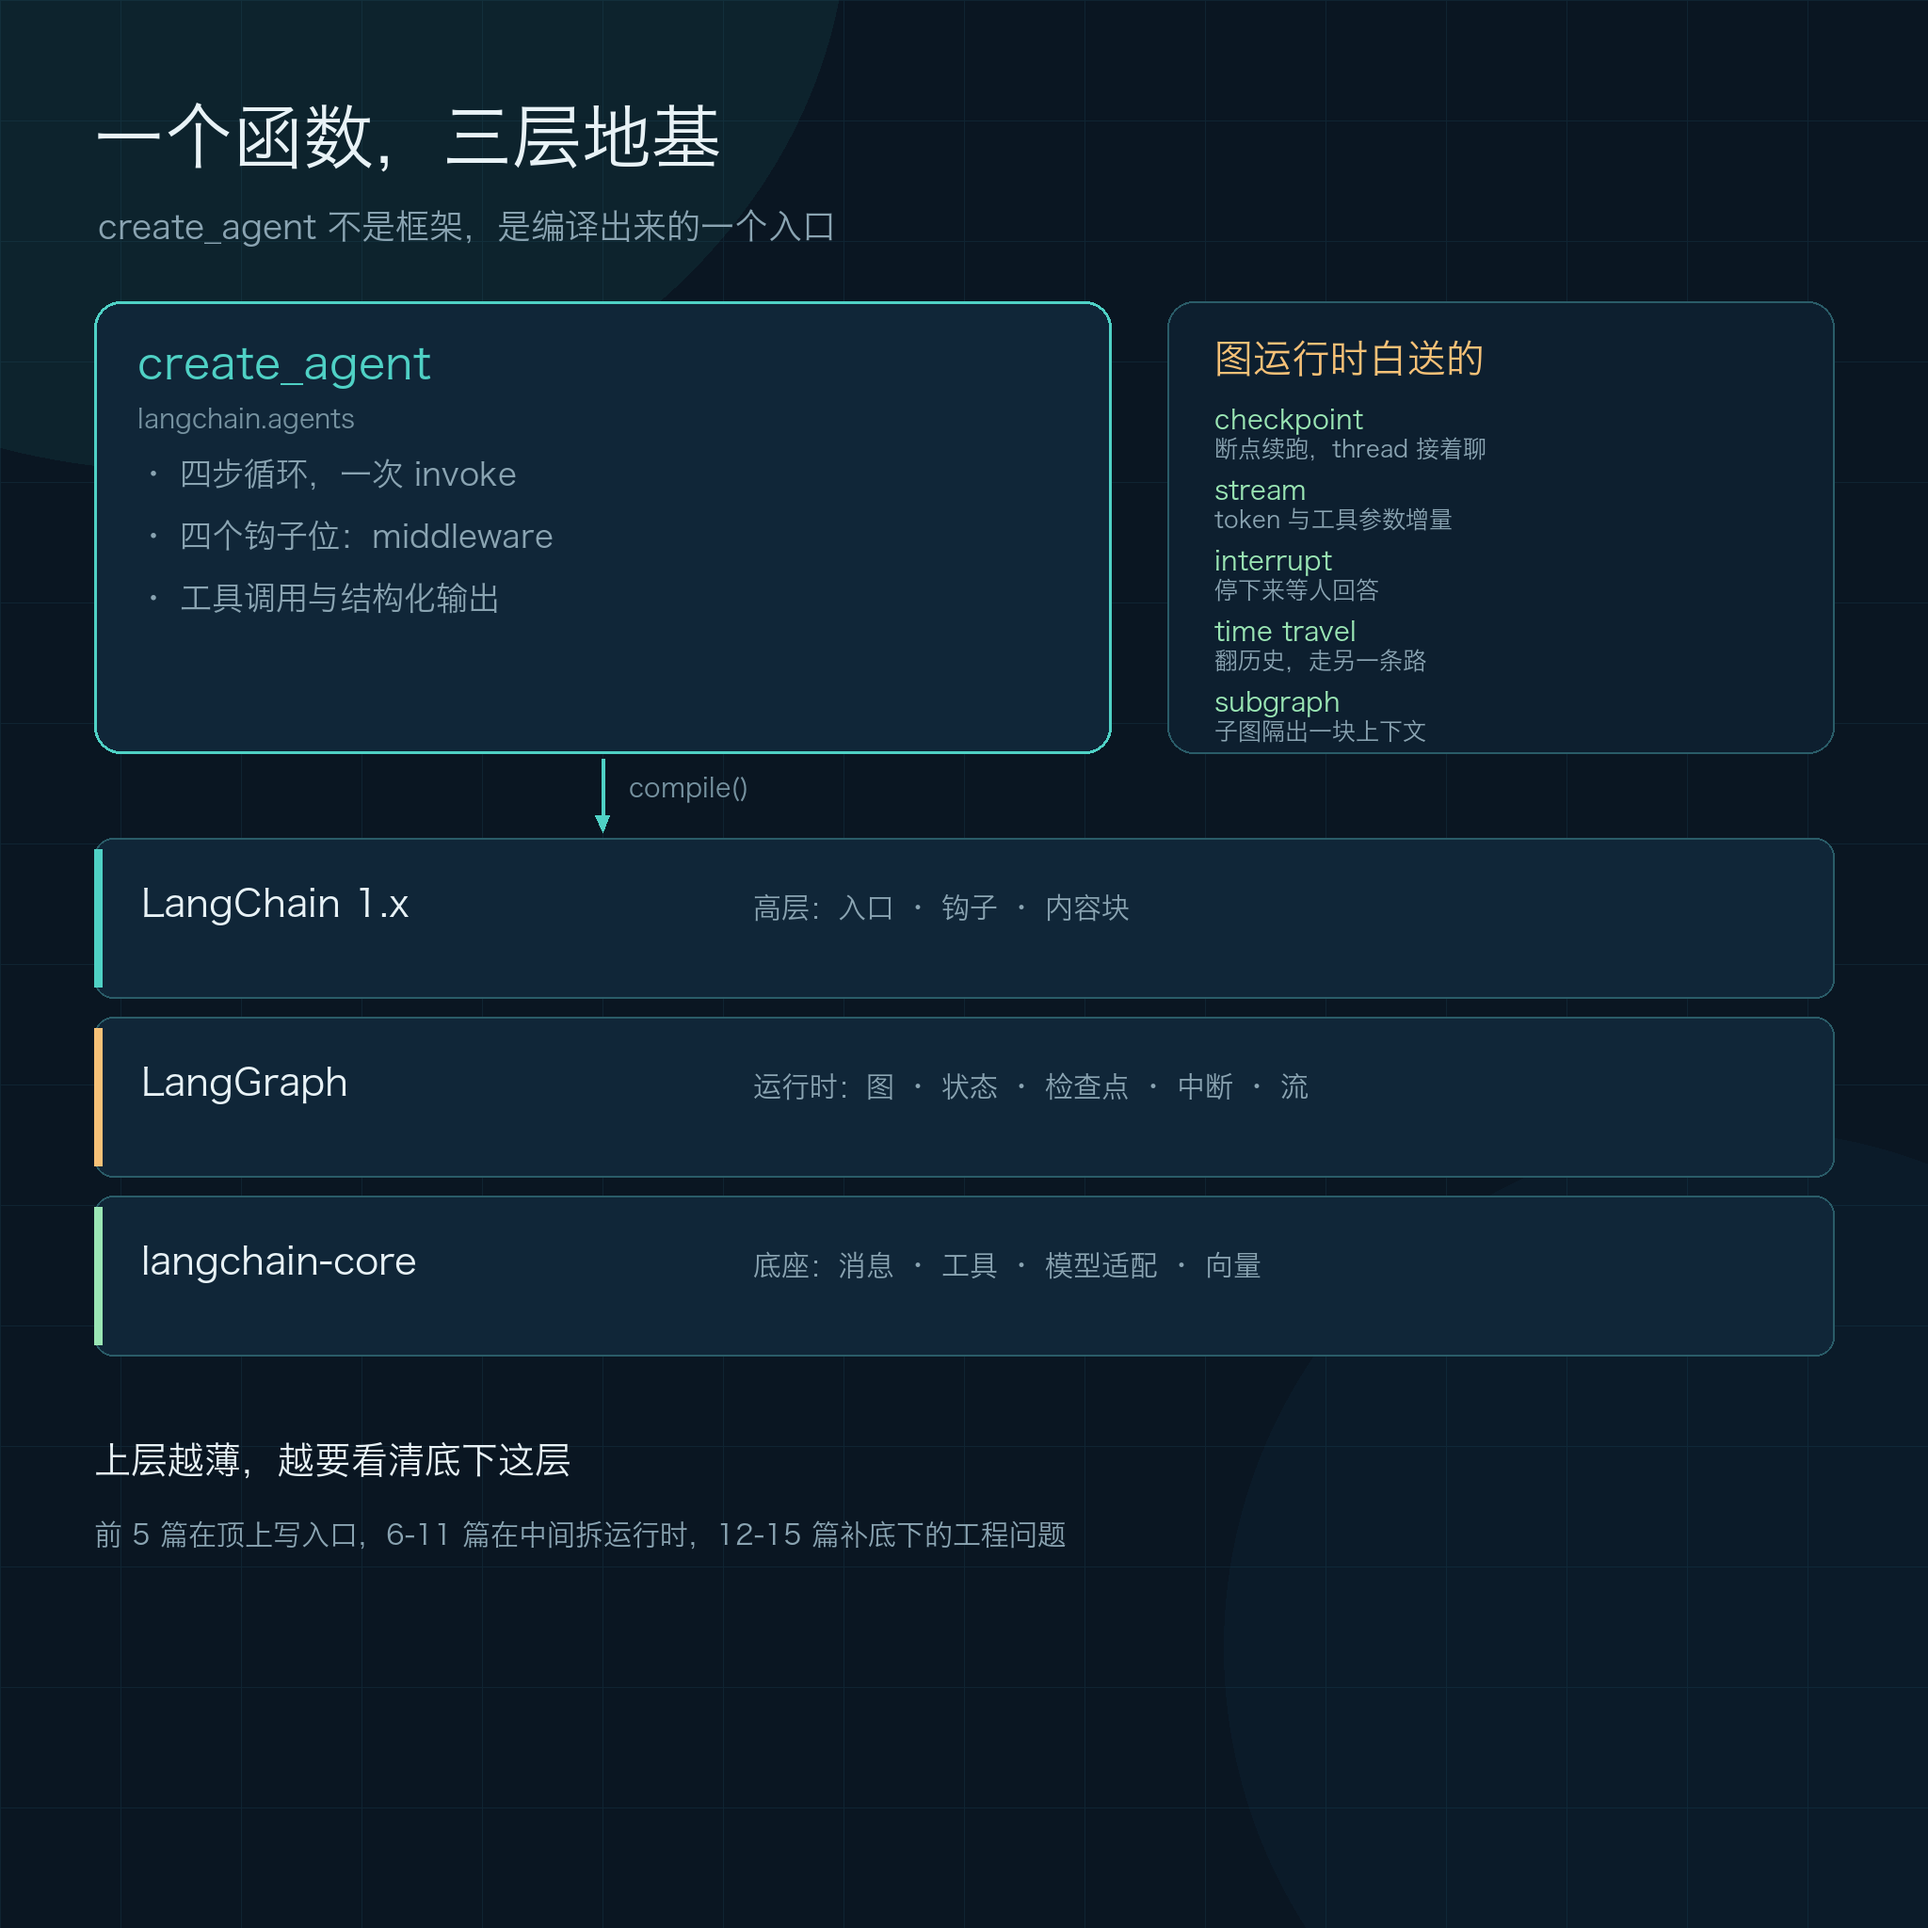
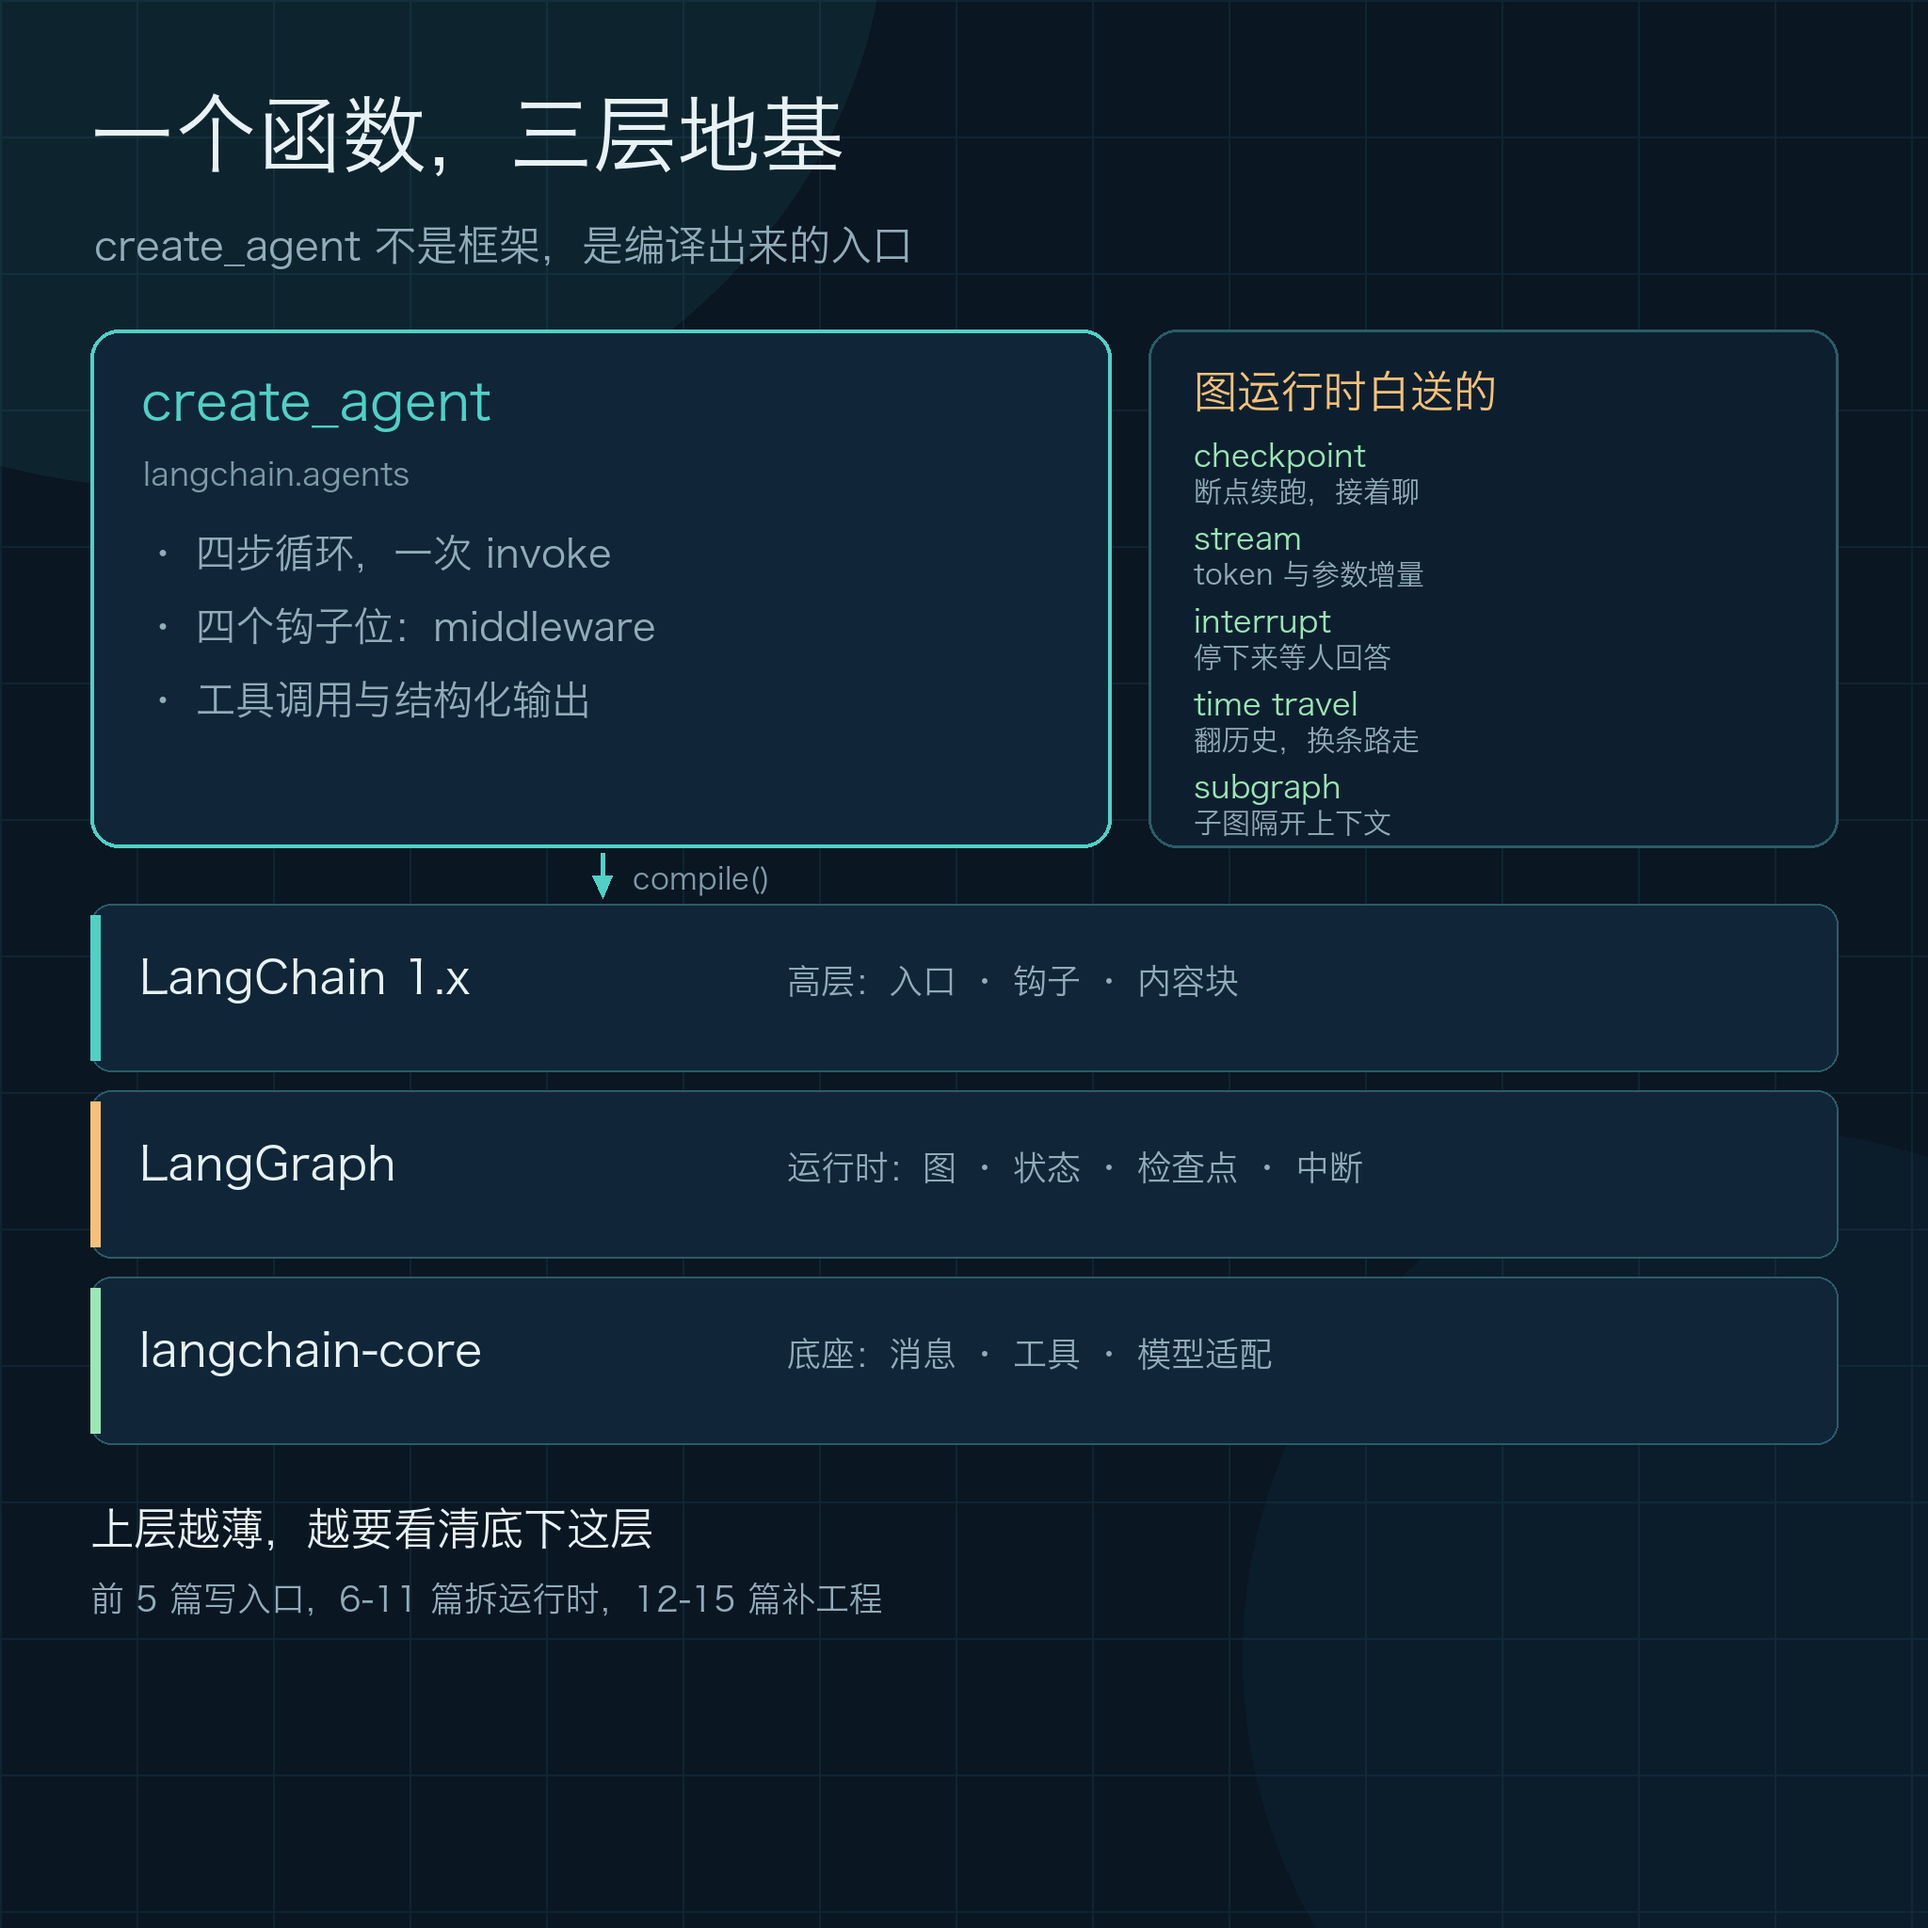
配图字号放大，新增飞书知识库与第01篇在线文档

diff --git a/README.md b/README.md
@@ -27,6 +27,17 @@ LangChain 生态迭代快，本仓库所有文章锁定在同一组版本上：
 | deepagents | 0.7.x（仅第 18 篇对比时涉及） |
 | 锚定日期 | 2026-11-18 |
 
+## 在线文档（飞书知识库）
+
+知识库名：**LangChain / LangGraph 实战**（space_id `7709512825424579611`）
+
+| 文档 | 链接 |
+|---|---|
+| 系列总览（18 篇目录与进度） | https://my.feishu.cn/wiki/IuziwwHkIiUOlCkfhDtcWyQ6nTe |
+| 第 01 篇：开篇 | https://my.feishu.cn/wiki/KqzowWFQMiuPHOkzwVIcWZfsnyd |
+
+文档正文由仓库 markdown 转 XML 生成，三张配图按章节内嵌；后续每写完一篇，按同样流程建文档、移入知识库，并在总览表里把状态改为「已发布」。
+
 装环境：
 
 ```sh
